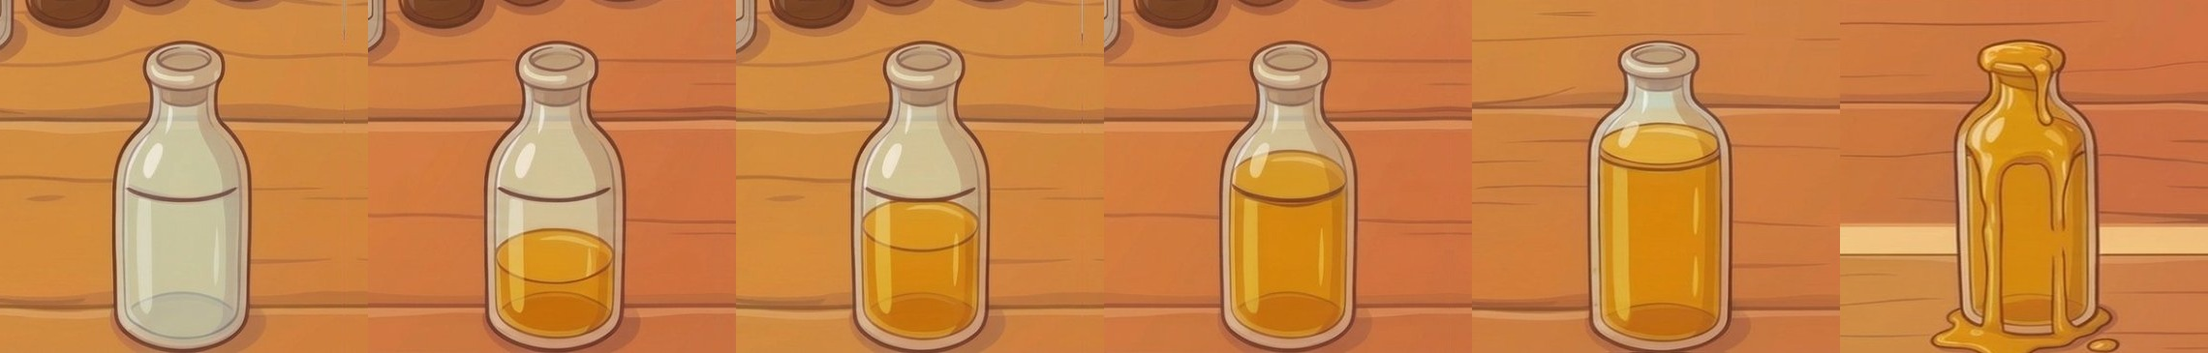
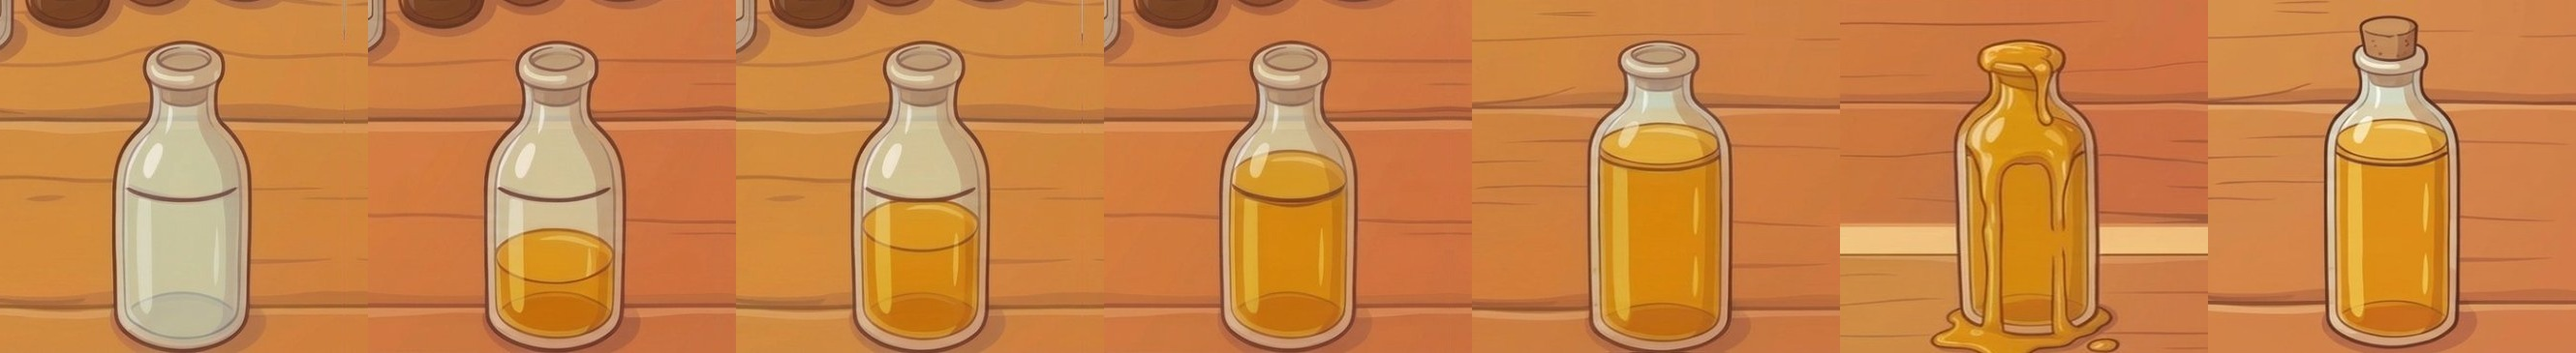
Sirop : flacon bouché pour l'étape du bouchon
Claude-Session: https://claude.ai/code/session_014bi368SbjZ4sCSmbjCzFcj

diff --git a/game.js b/game.js
@@ -4222,7 +4222,7 @@ function deskDraw() {
   if (SC !== SC_DISP || IN.floor !== 0 || kobQ < 2) return; const by = 452 - Math.abs(Math.sin(time * 4)) * 7, DX = 578;
   ctx.save(); ctx.shadowColor = 'rgba(0,0,0,.35)'; ctx.shadowBlur = 6; ctx.fillStyle = '#fff'; ctx.strokeStyle = '#2e9e6b'; ctx.lineWidth = 5; ctx.beginPath(); ctx.arc(DX, by, 27, 0, TAU); ctx.fill(); ctx.stroke(); ctx.shadowBlur = 0; { const m = KD_M.i_oil, h = 40; ctx.drawImage(KDI, m[0], m[1], m[2], m[3], DX - h * m[2] / m[3] / 2, by - h / 2, h * m[2] / m[3], h); } ctx.restore();
 }
-const RMF = {"W":1600,"H":3334,"f":{"s_water":[0,0,203,228],"s_herbs":[203,0,210,228],"s_perfect":[413,0,208,228],"s_boil":[621,0,203,192],"s_lid":[824,0,210,192],"s_cold":[1034,0,208,192],"t_water":[1242,0,209,228],"t_herbs":[0,228,205,228],"t_perfect":[205,228,204,228],"t_boil":[409,228,209,192],"t_lid":[618,228,205,192],"t_cold":[823,228,204,192],"w_cubes":[1027,228,203,228],"w_melt":[1230,228,210,228],"w_pools":[0,456,205,228],"w_perfect":[205,456,208,192],"w_hot":[413,456,209,192],"w_root":[622,456,205,192],"w_cool":[827,456,204,192],"p_empty":[1031,486,240,146],"p_piles":[1271,486,240,146],"p_mix1":[0,714,240,146],"p_mix2":[240,714,240,146],"p_perfect":[480,684,240,146],"p_lump":[720,684,240,145],"r_whole":[960,714,240,128],"r_half":[1200,714,240,128],"r_good":[0,859,240,128],"r_bad":[240,864,240,123],"m_whole":[480,889,240,128],"m_half":[720,889,240,128],"m_good":[960,859,240,128],"m_bad":[1200,859,240,128],"b_whole":[0,1052,240,128],"b_half":[240,1052,240,128],"b_good":[480,1022,240,128],"b_bad":[720,1022,240,128],"pot_0":[968,1038,208,268],"pot_25":[1192,1038,207,268],"pot_50":[8,1338,206,268],"pot_75":[230,1338,210,268],"pot_100":[456,1338,204,268],"pot_over":[676,1338,203,268],"pot_set":[895,1338,202,268],"pot_lid":[1113,1338,206,268],"cup_0":[1333,1370,226,127],"cup_25":[6,1670,226,127],"cup_50":[246,1670,226,127],"cup_75":[480,1622,240,135],"cup_100":[720,1622,240,136],"cup_over":[960,1622,240,135],"cup_ok":[1200,1622,240,215],"fl_0":[0,0,380,365,"assets/rem_fl.jpg?v=1",2280,365],"fl_25":[380,0,380,365,"assets/rem_fl.jpg?v=1",2280,365],"fl_50":[760,0,380,365,"assets/rem_fl.jpg?v=1",2280,365],"fl_75":[1140,0,380,365,"assets/rem_fl.jpg?v=1",2280,365],"fl_100":[1520,0,380,365,"assets/rem_fl.jpg?v=1",2280,365],"fl_over":[1900,0,380,365,"assets/rem_fl.jpg?v=1",2280,365],"fl_cork":[0,2049,240,191],"fl_ok":[240,2049,240,191],"f_0":[480,2049,236,300],"f_drip":[716,2049,236,300],"f_half":[952,2049,235,300],"f_press":[1187,2049,236,300],"f_ok":[0,2349,240,299],"f_over":[240,2349,240,299],"g_0":[480,2349,240,240],"g_fill":[720,2349,240,239],"g_1":[960,2349,240,241],"g_3":[1200,2349,240,244],"g_6":[0,2648,240,244],"g_jar":[240,2648,240,245],"d_sirop_ok":[480,2648,240,231],"d_baume_ok":[720,2648,240,233],"d_gelule_ok":[960,2648,240,223],"d_tisane_ok":[1200,2648,240,202],"d_sirop_mess":[0,2893,240,226],"d_baume_mess":[240,2893,240,228],"d_gelule_mess":[480,2893,240,218],"d_tisane_mess":[720,2893,240,198],"d_sirop_gift":[960,2893,240,221],"d_baume_gift":[1200,2893,240,223],"d_gelule_gift":[0,3121,240,213],"d_tisane_gift":[240,3121,240,193]}};
+const RMF = {"W":1600,"H":3334,"f":{"s_water":[0,0,203,228],"s_herbs":[203,0,210,228],"s_perfect":[413,0,208,228],"s_boil":[621,0,203,192],"s_lid":[824,0,210,192],"s_cold":[1034,0,208,192],"t_water":[1242,0,209,228],"t_herbs":[0,228,205,228],"t_perfect":[205,228,204,228],"t_boil":[409,228,209,192],"t_lid":[618,228,205,192],"t_cold":[823,228,204,192],"w_cubes":[1027,228,203,228],"w_melt":[1230,228,210,228],"w_pools":[0,456,205,228],"w_perfect":[205,456,208,192],"w_hot":[413,456,209,192],"w_root":[622,456,205,192],"w_cool":[827,456,204,192],"p_empty":[1031,486,240,146],"p_piles":[1271,486,240,146],"p_mix1":[0,714,240,146],"p_mix2":[240,714,240,146],"p_perfect":[480,684,240,146],"p_lump":[720,684,240,145],"r_whole":[960,714,240,128],"r_half":[1200,714,240,128],"r_good":[0,859,240,128],"r_bad":[240,864,240,123],"m_whole":[480,889,240,128],"m_half":[720,889,240,128],"m_good":[960,859,240,128],"m_bad":[1200,859,240,128],"b_whole":[0,1052,240,128],"b_half":[240,1052,240,128],"b_good":[480,1022,240,128],"b_bad":[720,1022,240,128],"pot_0":[968,1038,208,268],"pot_25":[1192,1038,207,268],"pot_50":[8,1338,206,268],"pot_75":[230,1338,210,268],"pot_100":[456,1338,204,268],"pot_over":[676,1338,203,268],"pot_set":[895,1338,202,268],"pot_lid":[1113,1338,206,268],"cup_0":[1333,1370,226,127],"cup_25":[6,1670,226,127],"cup_50":[246,1670,226,127],"cup_75":[480,1622,240,135],"cup_100":[720,1622,240,136],"cup_over":[960,1622,240,135],"cup_ok":[1200,1622,240,215],"fl_0":[0,0,380,365,"assets/rem_fl.jpg?v=2",2660,365],"fl_25":[380,0,380,365,"assets/rem_fl.jpg?v=2",2660,365],"fl_50":[760,0,380,365,"assets/rem_fl.jpg?v=2",2660,365],"fl_75":[1140,0,380,365,"assets/rem_fl.jpg?v=2",2660,365],"fl_100":[1520,0,380,365,"assets/rem_fl.jpg?v=2",2660,365],"fl_over":[1900,0,380,365,"assets/rem_fl.jpg?v=2",2660,365],"fl_cork":[2280,0,380,365,"assets/rem_fl.jpg?v=2",2660,365],"fl_ok":[240,2049,240,191],"f_0":[480,2049,236,300],"f_drip":[716,2049,236,300],"f_half":[952,2049,235,300],"f_press":[1187,2049,236,300],"f_ok":[0,2349,240,299],"f_over":[240,2349,240,299],"g_0":[480,2349,240,240],"g_fill":[720,2349,240,239],"g_1":[960,2349,240,241],"g_3":[1200,2349,240,244],"g_6":[0,2648,240,244],"g_jar":[240,2648,240,245],"d_sirop_ok":[480,2648,240,231],"d_baume_ok":[720,2648,240,233],"d_gelule_ok":[960,2648,240,223],"d_tisane_ok":[1200,2648,240,202],"d_sirop_mess":[0,2893,240,226],"d_baume_mess":[240,2893,240,228],"d_gelule_mess":[480,2893,240,218],"d_tisane_mess":[720,2893,240,198],"d_sirop_gift":[960,2893,240,221],"d_baume_gift":[1200,2893,240,223],"d_gelule_gift":[0,3121,240,213],"d_tisane_gift":[240,3121,240,193]}};
 const RM_URL = 'assets/rem_scenes.jpg';
 const rmFr = (k, h) => { const m = RMF.f[k]; if (!m) return ''; return m[4] ? spr(m[4], m[5], m[6], m, Math.min(h || 190, 270 * m[3] / m[2])) : spr(RM_URL, RMF.W, RMF.H, m, Math.min(h || 190, 270 * m[3] / m[2])); };   // m[4] : image à part (ex. flacons refaits)
 const ingKey = k => ING[k] && ING[k][1] === 'p' ? k : ING_STK[k];

diff --git a/index.html b/index.html
@@ -1154,7 +1154,7 @@
 <script src="mymask.js?v=4"></script>
 <script src="sprites.js?v=200"></script>
 <script src="art.js"></script>
-<script src="game.js?v=252"></script>
+<script src="game.js?v=253"></script>
 </body>
 </html>
 
